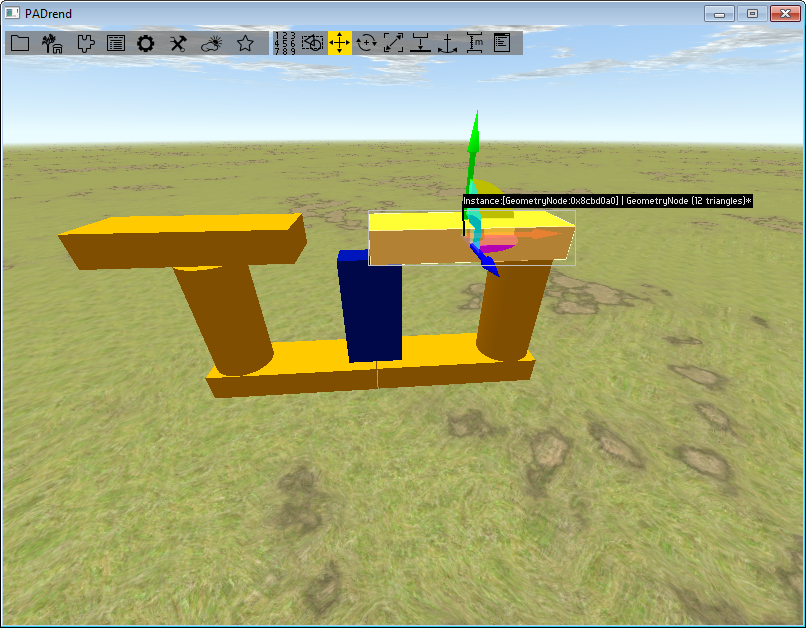
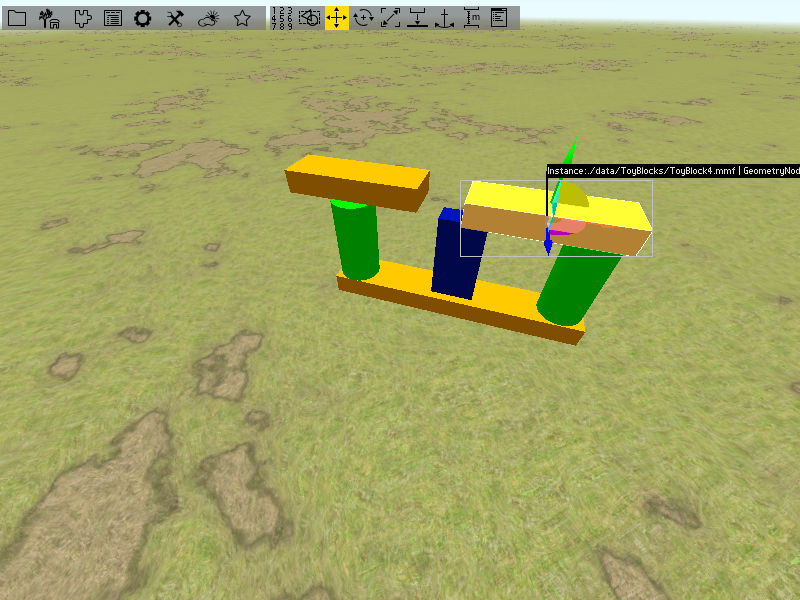
New screenshots Adding library to object placer added Duplicating added

diff --git a/Tutorial 2/Tutorial2_new.md b/Tutorial 2/Tutorial2_new.md
@@ -18,15 +18,25 @@ Infinite ground and dynamic sky are enabled.
 # Adding toy blocks to the scene
 Before we start, first activate the toolbar by pressing [F2].
 Navigate to a position a bit above the ground, looking down in a slight angle.
-Activate the _Scene Editor_ by either using the rightmost entry of the toolbar or by pressing [F2] again.
+Activate the _Scene Editor Window_  by either using the _Scene Editor Window_ entry of the toolbar or by pressing [F2] again.
 
 ![Ready to go](figures/initial.png)
 
 You are faced with a window containing of two the two tabs _Object explorer_ and _ObjectPlacer_. 
 Right now we are only interested in the _ObjectPlacer_.
-Open it and you will see a list of nodes you can add to the scene.
+Before we can add objects to the scene, we need to add them to the _ObjectPlacer_.
 
 ![The object placer](figures/obj_placer.png)
+
+Make sure the toy blocks files are located in PADrend's data folder.
+In the _ObjectPlacer_ click on add library.
+In the dialog choose the location of the toy blocks and hit _Confirm_.
+
+![Load library](figures/load_library.png)
+
+You should now find the toy blocks in the _ObjectPlacer_.
+
+![Object library](figures/op_library_loaded.png)
 
 You can add a new toy block via drag and drop.
 Click on _toyblock1_ and hold down the left mouse button.
@@ -35,7 +45,6 @@ Add some more toy blocks to the scene (e.g. one of each kind) and close the _Sce
 
 ![Toy blocks placed on the ground](figures/toy_blocks.png)
 
-<!--TODO add right click and option of tool-->
 # Node selection 
 In PADrend parts of the geometry (e.g. a single tree) are seen to be nodes within a hierarchical scene-graph. 
 Nodes can be manipulated in different ways (e.g moving them or resizing them).
@@ -50,9 +59,6 @@ It provides you with information about the node.
 In our case you should see the instance of the node, the node type (here GeometryNode) and the number of triangles it consists of.
 If you want to select more than one node also hold down the shift key and click on another node.
 To unselect perform a right click on the scene and choose _Unselect all_ from the _Select Node_ context menu. 
-
-<!--screenshot unselect-->
-
 Another way of selecting nodes via mouse is by using the selection tool.
 You can find the selection tool in the toolbar.
 
@@ -77,7 +83,7 @@ First of all we need to clean up the scene.
 Select all toy blocks and delete them by pressing [del].
 Notice: this operation can not be undone by [ctrl] + [z].
 Let's start with the baseplate.
-Open the _Scene Editor_ and add two instances of _toyblock3_ to the scene.
+Open the _Scene Editor_ and add two instances of _toyblock4_ to the scene.
 
 ## Snap moving tool
 To move nodes snapped to the ground you can use the snap moving tool. 
@@ -113,7 +119,7 @@ You may need to need to view the blocks from different viewpoints.
 ![The baseplate](figures/base_plate.png)
 
 Next up we need to cylinders for the right and left side.
-Drag two instances of _toyblock4_ into the scene.
+Drag two instances of _toyblock3_ into the scene.
 Again use the snap moving tool to place them.
 The image below shows you how the cylinders should be placed.
 
@@ -152,7 +158,7 @@ Place it between the cylinders by using the snap moving tool.
 
 ![Middle block placed](figures/middle.png)
 
-Next up we again need two instances of _toyblock3_.
+Next up we again need two instances of _toyblock4_.
 Use the snap moving tool to place them on top of the cylinders.
 You do not have to care about the alignment right now.
 
@@ -204,7 +210,37 @@ Type in a filename you like and hit confirm.
 
 ![Save dialog](figures/save_dialog.png)
 
+## Duplicating the house
+Assume you want to have several houses.
+One way to do it would be building them one by one.
+But we have already build one and it was quiet some work.
+So it is better to take the one that we have and duplicate it.
+First we need to put all toy blocks together in a common subtree of the scene graph.
+Select all toy blocks and open the context menu.
+Go to _Node tools_ and open the _Tree tools_ menu.
+Choose _Group nodes in common subtree_.
 
+![Group toy blocks](figures/group_node.png)
 
+In stead of having a bounding box around each single toy block there should now be a bounding box around the whole house.
 
+![Common node](figures/common_node.png)
 
+But you are still able to select the single toy blocks within the house.
+Select one of them.
+You can use [pgUp] and [pgDown] to traverse through the scene graph level wise.
+Use [pgUp] to traverse one level up and you will reach the houses node we have just created.
+Use [pgDown] to traverse one level down so that each child node gets selected.
+In case of the house that means that all the toy blocks get selected.
+Traverse back to the common node.
+To duplicate the house press [ctrl] + [d].
+Now you have a duplicate stored in the main memory.
+To add it to the scene press [ctrl] + [v].
+The duplicate will be added at the position of the original house.
+To separate both use one of the translation tools.
+Create some houses.
+
+![Duplicated houses](figures/duplicated.png)
+
+If you want to copy a house from one scene to another select the house and press [ctrl] + [c].
+Change the scene and use [ctrl] + [v] to paste it.
